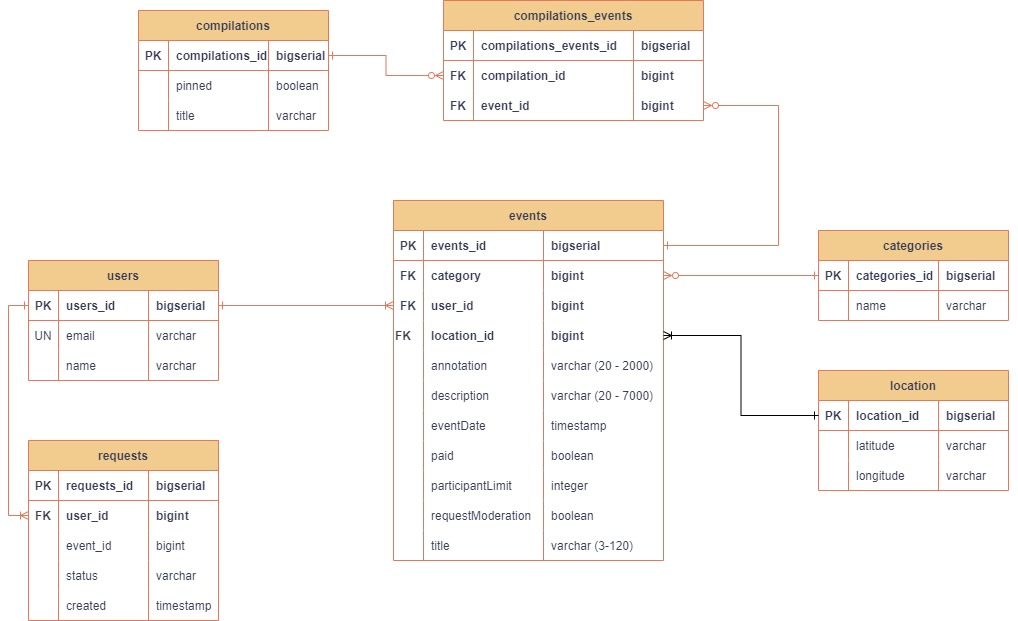
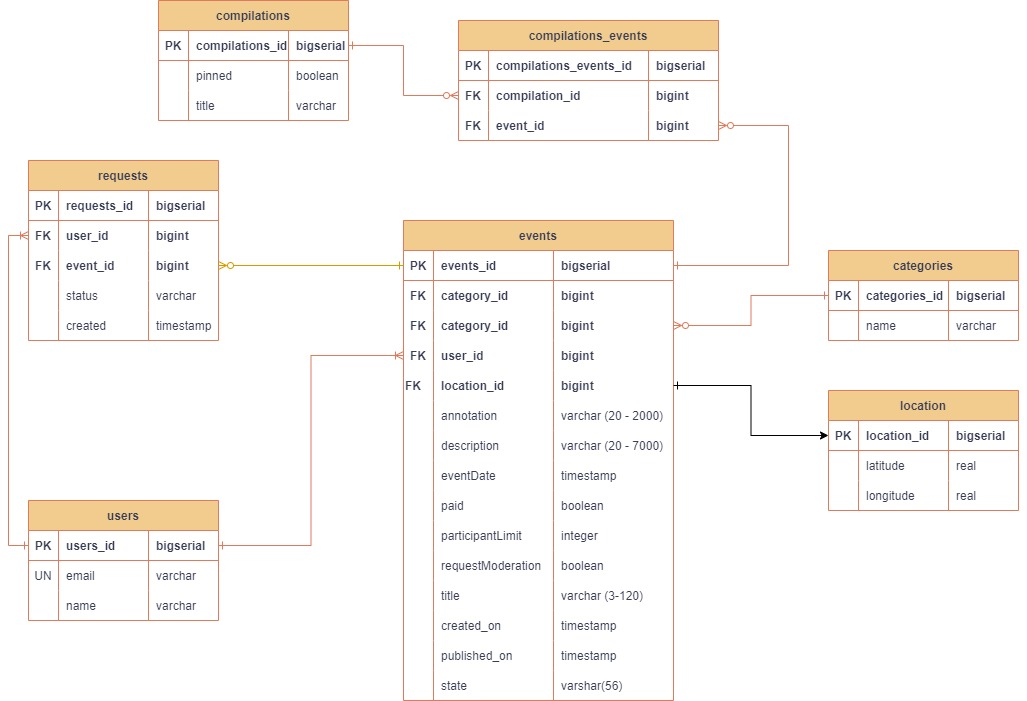
feat: request entity frame without implementation was added.

diff --git a/ewm-service/src/main/java/ru/practicum/requests/controller/ControllerRequest.java b/ewm-service/src/main/java/ru/practicum/requests/controller/ControllerRequest.java
@@ -1,0 +1,44 @@
+package ru.practicum.requests.controller;
+
+import lombok.AllArgsConstructor;
+import org.springframework.validation.annotation.Validated;
+import org.springframework.web.bind.annotation.GetMapping;
+import org.springframework.web.bind.annotation.PatchMapping;
+import org.springframework.web.bind.annotation.PathVariable;
+import org.springframework.web.bind.annotation.PostMapping;
+import org.springframework.web.bind.annotation.RequestBody;
+import org.springframework.web.bind.annotation.RequestMapping;
+import org.springframework.web.bind.annotation.RestController;
+import ru.practicum.requests.dto.ParticipationRequestDto;
+import ru.practicum.requests.service.RequestService;
+
+import javax.validation.Valid;
+import javax.validation.constraints.Min;
+import java.util.List;
+
+@RestController
+@RequestMapping("/users/{userId}/requests")
+@AllArgsConstructor
+@Validated
+public class ControllerRequest {
+    private final RequestService requestService;
+
+    @GetMapping
+    public List<ParticipationRequestDto> getAllRequestsOfcurrentUser(@PathVariable("userId") @Min(0) Long userId) {
+        return requestService.getAllRequestsOfcurrentUser(userId);
+    }
+
+    @PostMapping
+    public ParticipationRequestDto saveNewRequest(@PathVariable("userId") @Min(0) Long userId,
+                                                  @Valid @RequestBody ParticipationRequestDto participationRequestDto) {
+        return requestService.saveNewRequest(userId, participationRequestDto);
+    }
+
+    @PatchMapping("/{requestId}/cancel")
+    public ParticipationRequestDto updateRequestStatusToCancel(
+            @PathVariable("userId") @Min(0) Long userId,
+            @PathVariable("requestId") @Min(0) Long requestId,
+            @Valid @RequestBody ParticipationRequestDto participationRequestDto) {
+        return requestService.updateRequestStatusToCancel(userId, requestId, participationRequestDto);
+    }
+}

diff --git a/ewm-service/src/main/java/ru/practicum/requests/model/RequestModel.java b/ewm-service/src/main/java/ru/practicum/requests/model/RequestModel.java
@@ -1,0 +1,42 @@
+package ru.practicum.requests.model;
+
+import lombok.AllArgsConstructor;
+import lombok.Builder;
+import lombok.Data;
+import lombok.NoArgsConstructor;
+import ru.practicum.events.model.EventModel;
+import ru.practicum.users.model.UserModel;
+
+import javax.persistence.Column;
+import javax.persistence.Entity;
+import javax.persistence.FetchType;
+import javax.persistence.GeneratedValue;
+import javax.persistence.GenerationType;
+import javax.persistence.Id;
+import javax.persistence.JoinColumn;
+import javax.persistence.ManyToOne;
+import javax.persistence.Table;
+import java.time.LocalDateTime;
+
+@Data
+@AllArgsConstructor
+@NoArgsConstructor
+@Builder
+@Entity
+@Table(name = "requests")
+public class RequestModel {
+    @Id
+    @GeneratedValue(strategy = GenerationType.IDENTITY)
+    @Column(name = "requests_id")
+    private Long id;
+    @ManyToOne(fetch = FetchType.LAZY)
+    @JoinColumn(name = "user_id")
+    private UserModel requester;
+    @ManyToOne(fetch = FetchType.LAZY)
+    @JoinColumn(name = "event_id")
+    private EventModel event;
+    @Column(name = "status")
+    private String status;
+    @Column(name = "ctreated")
+    private LocalDateTime created;
+}

diff --git a/ewm-service/src/main/java/ru/practicum/requests/service/RequestServiceImpl.java b/ewm-service/src/main/java/ru/practicum/requests/service/RequestServiceImpl.java
@@ -1,0 +1,29 @@
+package ru.practicum.requests.service;
+
+import lombok.AllArgsConstructor;
+import org.springframework.stereotype.Service;
+import ru.practicum.requests.dto.ParticipationRequestDto;
+import ru.practicum.requests.repository.RequestRepository;
+
+import java.util.List;
+
+@Service
+@AllArgsConstructor
+public class RequestServiceImpl implements RequestService {
+    private RequestRepository requestRepository;
+
+    @Override
+    public List<ParticipationRequestDto> getAllRequestsOfcurrentUser(Long userId) {
+        return null;
+    }
+
+    @Override
+    public ParticipationRequestDto saveNewRequest(Long userId, ParticipationRequestDto participationRequestDto) {
+        return null;
+    }
+
+    @Override
+    public ParticipationRequestDto updateRequestStatusToCancel(Long userId, Long requestId, ParticipationRequestDto participationRequestDto) {
+        return null;
+    }
+}

diff --git a/ewm-service/src/main/java/ru/practicum/requests/dto/ParticipationRequestDto.java b/ewm-service/src/main/java/ru/practicum/requests/dto/ParticipationRequestDto.java
@@ -1,23 +1,23 @@
-package ru.practicum.events.dto;
+package ru.practicum.requests.dto;
 
 import com.fasterxml.jackson.annotation.JsonFormat;
 import lombok.AllArgsConstructor;
 import lombok.Builder;
 import lombok.Data;
 import lombok.NoArgsConstructor;
-import ru.practicum.enums.EventStateEnum;
+import ru.practicum.enums.RequestStatusEnum;
 
 import java.time.LocalDateTime;
 
 @Data
-@Builder
 @AllArgsConstructor
 @NoArgsConstructor
+@Builder
 public class ParticipationRequestDto {
     @JsonFormat(pattern = "yyyy-MM-dd HH:mm:ss")
     private LocalDateTime created;
     private Long event;
-    private Long id;
-    private Long requester;
-    private EventStateEnum state;
+    private long id;
+    private long requester;
+    private RequestStatusEnum status;
 }

diff --git a/ewm-service/src/main/java/ru/practicum/requests/service/RequestService.java b/ewm-service/src/main/java/ru/practicum/requests/service/RequestService.java
@@ -1,0 +1,15 @@
+package ru.practicum.requests.service;
+
+import ru.practicum.requests.dto.ParticipationRequestDto;
+
+import java.util.List;
+
+public interface RequestService {
+    List<ParticipationRequestDto> getAllRequestsOfcurrentUser(Long userId);
+
+    ParticipationRequestDto saveNewRequest(Long userId, ParticipationRequestDto participationRequestDto);
+
+    ParticipationRequestDto updateRequestStatusToCancel(Long userId,
+                                                        Long requestId,
+                                                        ParticipationRequestDto participationRequestDto);
+}

diff --git a/ewm-service/src/main/java/ru/practicum/events/service/EventServiceImpl.java b/ewm-service/src/main/java/ru/practicum/events/service/EventServiceImpl.java
@@ -15,8 +15,8 @@ import ru.practicum.events.dto.LocationDto;
 import ru.practicum.events.dto.NewEventDto;
 import ru.practicum.events.dto.ParticipationRequestDto;
 import ru.practicum.events.dto.UpdateEventAdminAndUserRequestDTO;
-import ru.practicum.events.enums.EventStateEnum;
-import ru.practicum.events.enums.StateActionEnum;
+import ru.practicum.enums.EventStateEnum;
+import ru.practicum.enums.StateActionEnum;
 import ru.practicum.events.mapper.EventMapper;
 import ru.practicum.events.mapper.LocationMapper;
 import ru.practicum.events.model.EventModel;

diff --git a/ewm-service/src/main/java/ru/practicum/requests/mapper/RequestMapper.java b/ewm-service/src/main/java/ru/practicum/requests/mapper/RequestMapper.java
@@ -1,0 +1,12 @@
+package ru.practicum.requests.mapper;
+
+import org.mapstruct.Mapper;
+import ru.practicum.requests.dto.ParticipationRequestDto;
+import ru.practicum.requests.model.RequestModel;
+
+@Mapper(componentModel = "spring")
+public interface RequestMapper {
+    ParticipationRequestDto mapRequestModelToParticipationRequestDto(RequestModel requestModel);
+
+    RequestModel mapParticipationRequestDtoToRequestModel(ParticipationRequestDto participationRequestDto);
+}

diff --git a/ewm-service/src/main/java/ru/practicum/events/dto/EventFullDto.java b/ewm-service/src/main/java/ru/practicum/events/dto/EventFullDto.java
@@ -6,7 +6,7 @@ import lombok.Builder;
 import lombok.Data;
 import lombok.NoArgsConstructor;
 import ru.practicum.categories.dto.CategoryDto;
-import ru.practicum.events.enums.EventStateEnum;
+import ru.practicum.enums.EventStateEnum;
 import ru.practicum.users.dto.UserShortDto;
 
 import java.time.LocalDateTime;

diff --git a/ewm-service/src/main/java/ru/practicum/events/dto/UpdateEventAdminAndUserRequestDTO.java b/ewm-service/src/main/java/ru/practicum/events/dto/UpdateEventAdminAndUserRequestDTO.java
@@ -5,7 +5,7 @@ import lombok.AllArgsConstructor;
 import lombok.Builder;
 import lombok.Data;
 import lombok.NoArgsConstructor;
-import ru.practicum.events.enums.StateActionEnum;
+import ru.practicum.enums.StateActionEnum;
 
 import java.time.LocalDateTime;
 

diff --git a/ewm-service/src/main/java/ru/practicum/requests/repository/RequestRepository.java b/ewm-service/src/main/java/ru/practicum/requests/repository/RequestRepository.java
@@ -1,0 +1,7 @@
+package ru.practicum.requests.repository;
+
+import org.springframework.data.jpa.repository.JpaRepository;
+import ru.practicum.requests.model.RequestModel;
+
+public interface RequestRepository extends JpaRepository<RequestModel, Long> {
+}

diff --git a/ewm-service/src/main/java/ru/practicum/events/dto/EventRequestStatusUpdateRequestDto.java b/ewm-service/src/main/java/ru/practicum/events/dto/EventRequestStatusUpdateRequestDto.java
@@ -4,7 +4,7 @@ import lombok.AllArgsConstructor;
 import lombok.Builder;
 import lombok.Data;
 import lombok.NoArgsConstructor;
-import ru.practicum.events.enums.RequestStatusEnum;
+import ru.practicum.enums.RequestStatusEnum;
 
 import java.util.List;
 

diff --git a/ewm-service/src/main/java/ru/practicum/enums/EventStateEnum.java b/ewm-service/src/main/java/ru/practicum/enums/EventStateEnum.java
@@ -1,4 +1,4 @@
-package ru.practicum.events.enums;
+package ru.practicum.enums;
 
 import ru.practicum.exceptions.EwmServiceUnsupportedStatusEnum;
 
